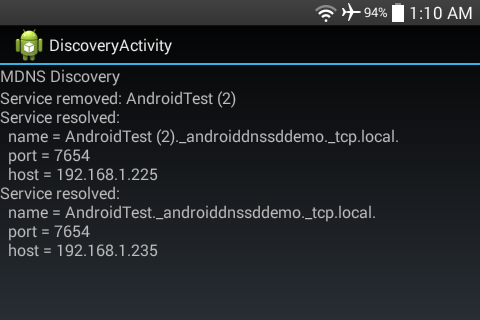
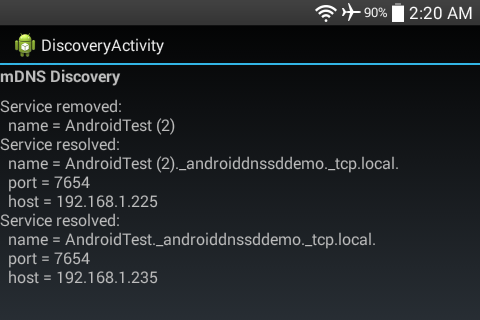
minor refactoring

diff --git a/library/AndroidDnssdDemo/src/main/java/com/github/twitwi/androiddnssddemo/DiscoveryActivity.java b/library/AndroidDnssdDemo/src/main/java/com/github/twitwi/androiddnssddemo/DiscoveryActivity.java
@@ -7,6 +7,8 @@ import javax.jmdns.ServiceEvent;
 import javax.jmdns.ServiceListener;
 
 import android.app.Activity;
+import android.content.Context;
+import android.net.wifi.WifiManager;
 import android.os.Bundle;
 import android.view.View;
 import android.view.View.OnClickListener;
@@ -15,15 +17,32 @@ import android.widget.TextView;
 import javax.jmdns.ServiceInfo;
 
 public class DiscoveryActivity extends Activity {
-    private static final String BONJOUR_SERVICE_TYPE = "_androiddnssddemo._tcp.local.";
-    private static final int    BONJOUR_SERVICE_PORT = 7654;
+    private static final String NL = "\n  ";
 
-    private android.net.wifi.WifiManager.MulticastLock lock;
+    private String LABEL_EVENT_RESOLVED;
+    private String LABEL_EVENT_REMOVED;
+    private String LABEL_NAME;
+    private String LABEL_PORT;
+    private String LABEL_HOST;
+    private String BONJOUR_SERVICE_NAME;
+    private String BONJOUR_SERVICE_TYPE;
+    private int    BONJOUR_SERVICE_PORT;
+
+    private WifiManager.MulticastLock lock;
 
     @Override
     public void onCreate(Bundle savedInstanceState) {
         super.onCreate(savedInstanceState);
         setContentView(R.layout.main);
+
+        LABEL_EVENT_RESOLVED = getString(R.string.discovery_output_label_event_resolved);
+        LABEL_EVENT_REMOVED  = getString(R.string.discovery_output_label_event_removed);
+        LABEL_NAME           = getString(R.string.discovery_output_label_name);
+        LABEL_PORT           = getString(R.string.discovery_output_label_port);
+        LABEL_HOST           = getString(R.string.discovery_output_label_host);
+        BONJOUR_SERVICE_NAME = getString(R.string.constant_bonjour_service_name);
+        BONJOUR_SERVICE_TYPE = getString(R.string.constant_bonjour_service_type);
+        BONJOUR_SERVICE_PORT = Integer.parseInt(getString(R.string.constant_bonjour_service_port), 10);
     }
 
     @Override
@@ -59,8 +78,8 @@ public class DiscoveryActivity extends Activity {
     private ServiceInfo serviceInfo;
 
     private void setUp() {
-        android.net.wifi.WifiManager wifi = (android.net.wifi.WifiManager) getSystemService(android.content.Context.WIFI_SERVICE);
-        lock = wifi.createMulticastLock("mylockthereturn");
+        WifiManager wifi = (WifiManager) getSystemService(Context.WIFI_SERVICE);
+        lock = wifi.createMulticastLock("MulticastLock");
         lock.setReferenceCounted(true);
         lock.acquire();
         try {
@@ -69,17 +88,16 @@ public class DiscoveryActivity extends Activity {
 
                 @Override
                 public void serviceResolved(ServiceEvent ev) {
-                    String NL = "\n  ";
                     String additions = "";
                     if (ev.getInfo().getInetAddresses() != null && ev.getInfo().getInetAddresses().length > 0) {
-                        additions = NL + "host = " + ev.getInfo().getInetAddresses()[0].getHostAddress();
+                        additions = NL + LABEL_HOST + " = " + ev.getInfo().getInetAddresses()[0].getHostAddress();
                     }
-                    notifyUser("Service resolved:" + NL + "name = " + ev.getInfo().getQualifiedName() + NL + "port = " + ev.getInfo().getPort() + additions);
+                    notifyUser(LABEL_EVENT_RESOLVED + ":" + NL + LABEL_NAME + " = " + ev.getInfo().getQualifiedName() + NL + LABEL_PORT + " = " + ev.getInfo().getPort() + additions);
                 }
 
                 @Override
                 public void serviceRemoved(ServiceEvent ev) {
-                    notifyUser("Service removed: " + ev.getName());
+                    notifyUser(LABEL_EVENT_REMOVED + ":" + NL + LABEL_NAME + " = " + ev.getName());
                 }
 
                 @Override
@@ -88,7 +106,7 @@ public class DiscoveryActivity extends Activity {
                     jmdns.requestServiceInfo(event.getType(), event.getName(), 1);
                 }
             });
-            serviceInfo = ServiceInfo.create(BONJOUR_SERVICE_TYPE, "AndroidTest", BONJOUR_SERVICE_PORT, "plain test service from android");
+            serviceInfo = ServiceInfo.create(BONJOUR_SERVICE_TYPE, BONJOUR_SERVICE_NAME, BONJOUR_SERVICE_PORT, "description");
             jmdns.registerService(serviceInfo);
         }
         catch (IOException e) {}
